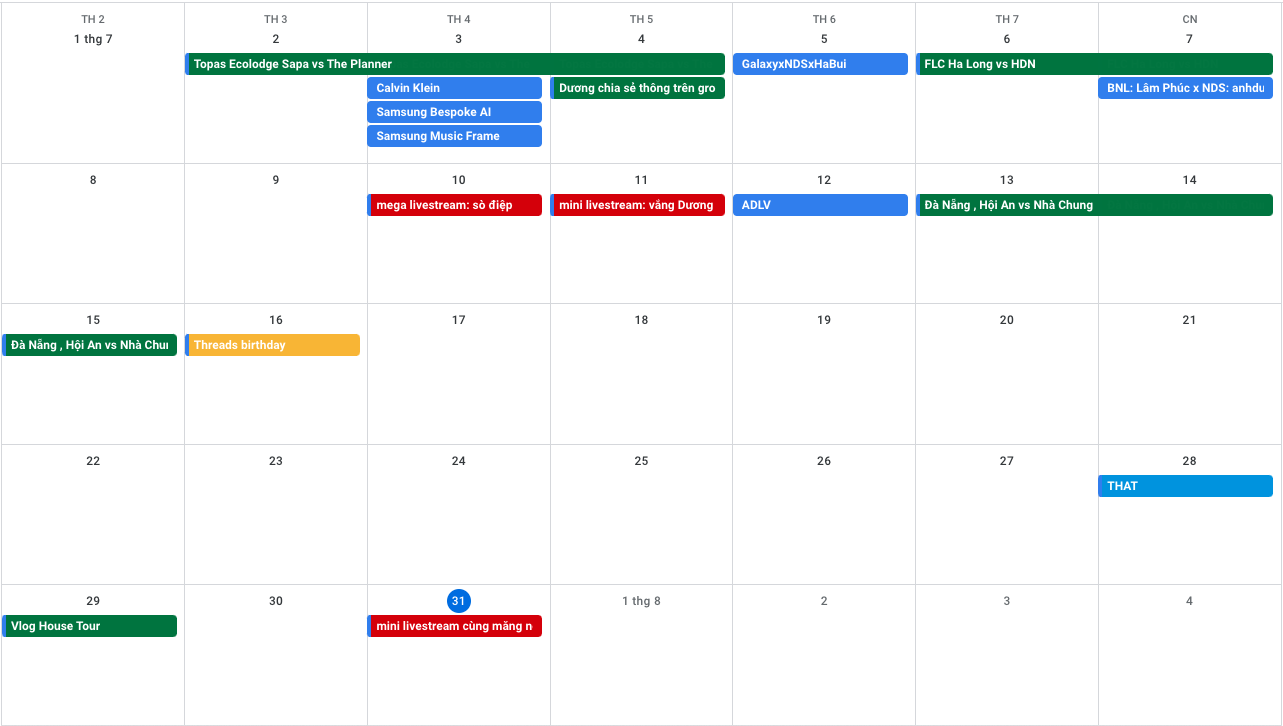
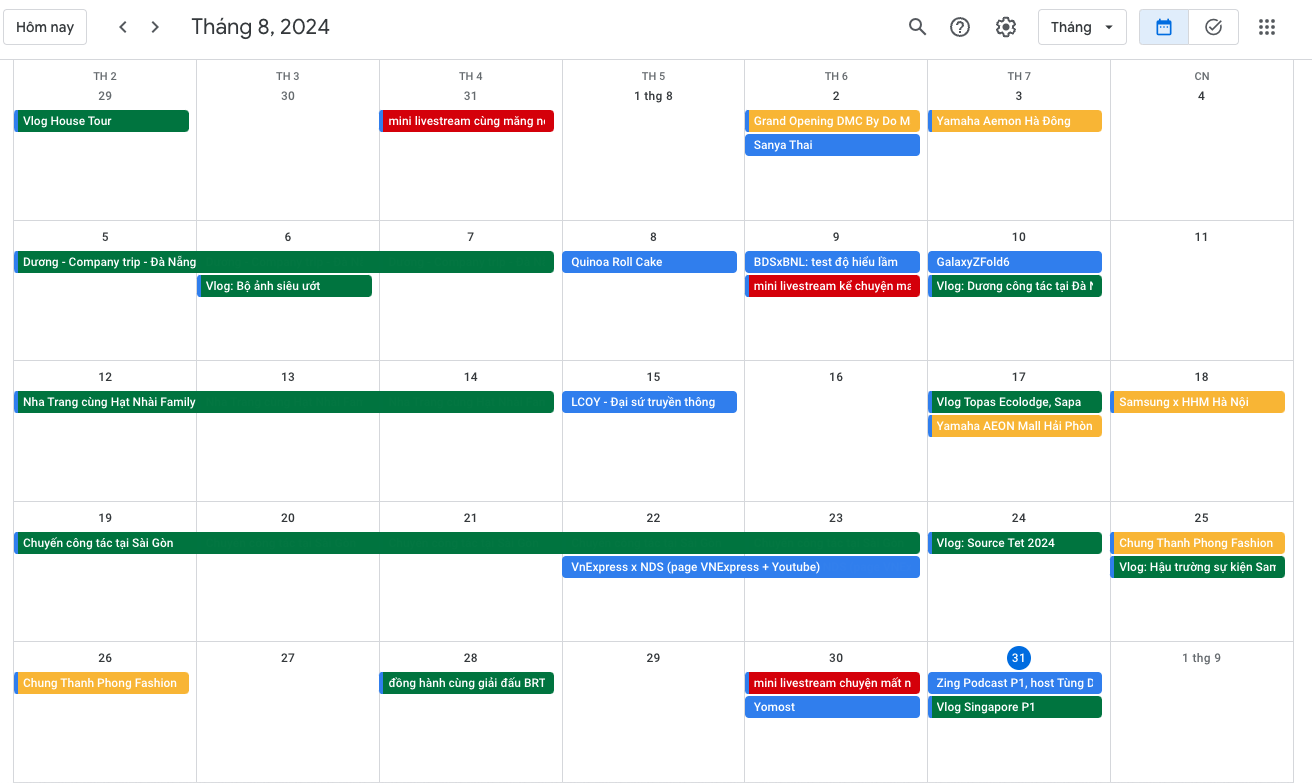
comit 31/08

diff --git a/src/content/posts/ninh_duong_story_calendar_08_2024/index.md b/src/content/posts/ninh_duong_story_calendar_08_2024/index.md
@@ -30,6 +30,15 @@ Tháng 8 này có gì:
 - Hoạt động nổi bật nhất tháng(ý kiến cá nhân): Sự kiện Samsung x HHM, bài phỏng vấn VnExpress. 
 
 
+<img width="400" src="https://github.com/user-attachments/assets/2c56e3cd-98a8-4f61-b069-1ddb2cf5515b" />
+
+
+<img width="400" src="https://github.com/user-attachments/assets/226f2b68-2ae1-40ac-b13b-20a403f1eac2" />
+
+
+<img width="400" src="https://github.com/user-attachments/assets/9fe4f12b-9d06-4846-94f5-6afaac68e4d7" />
+
+
 
 ### Threads 
 
